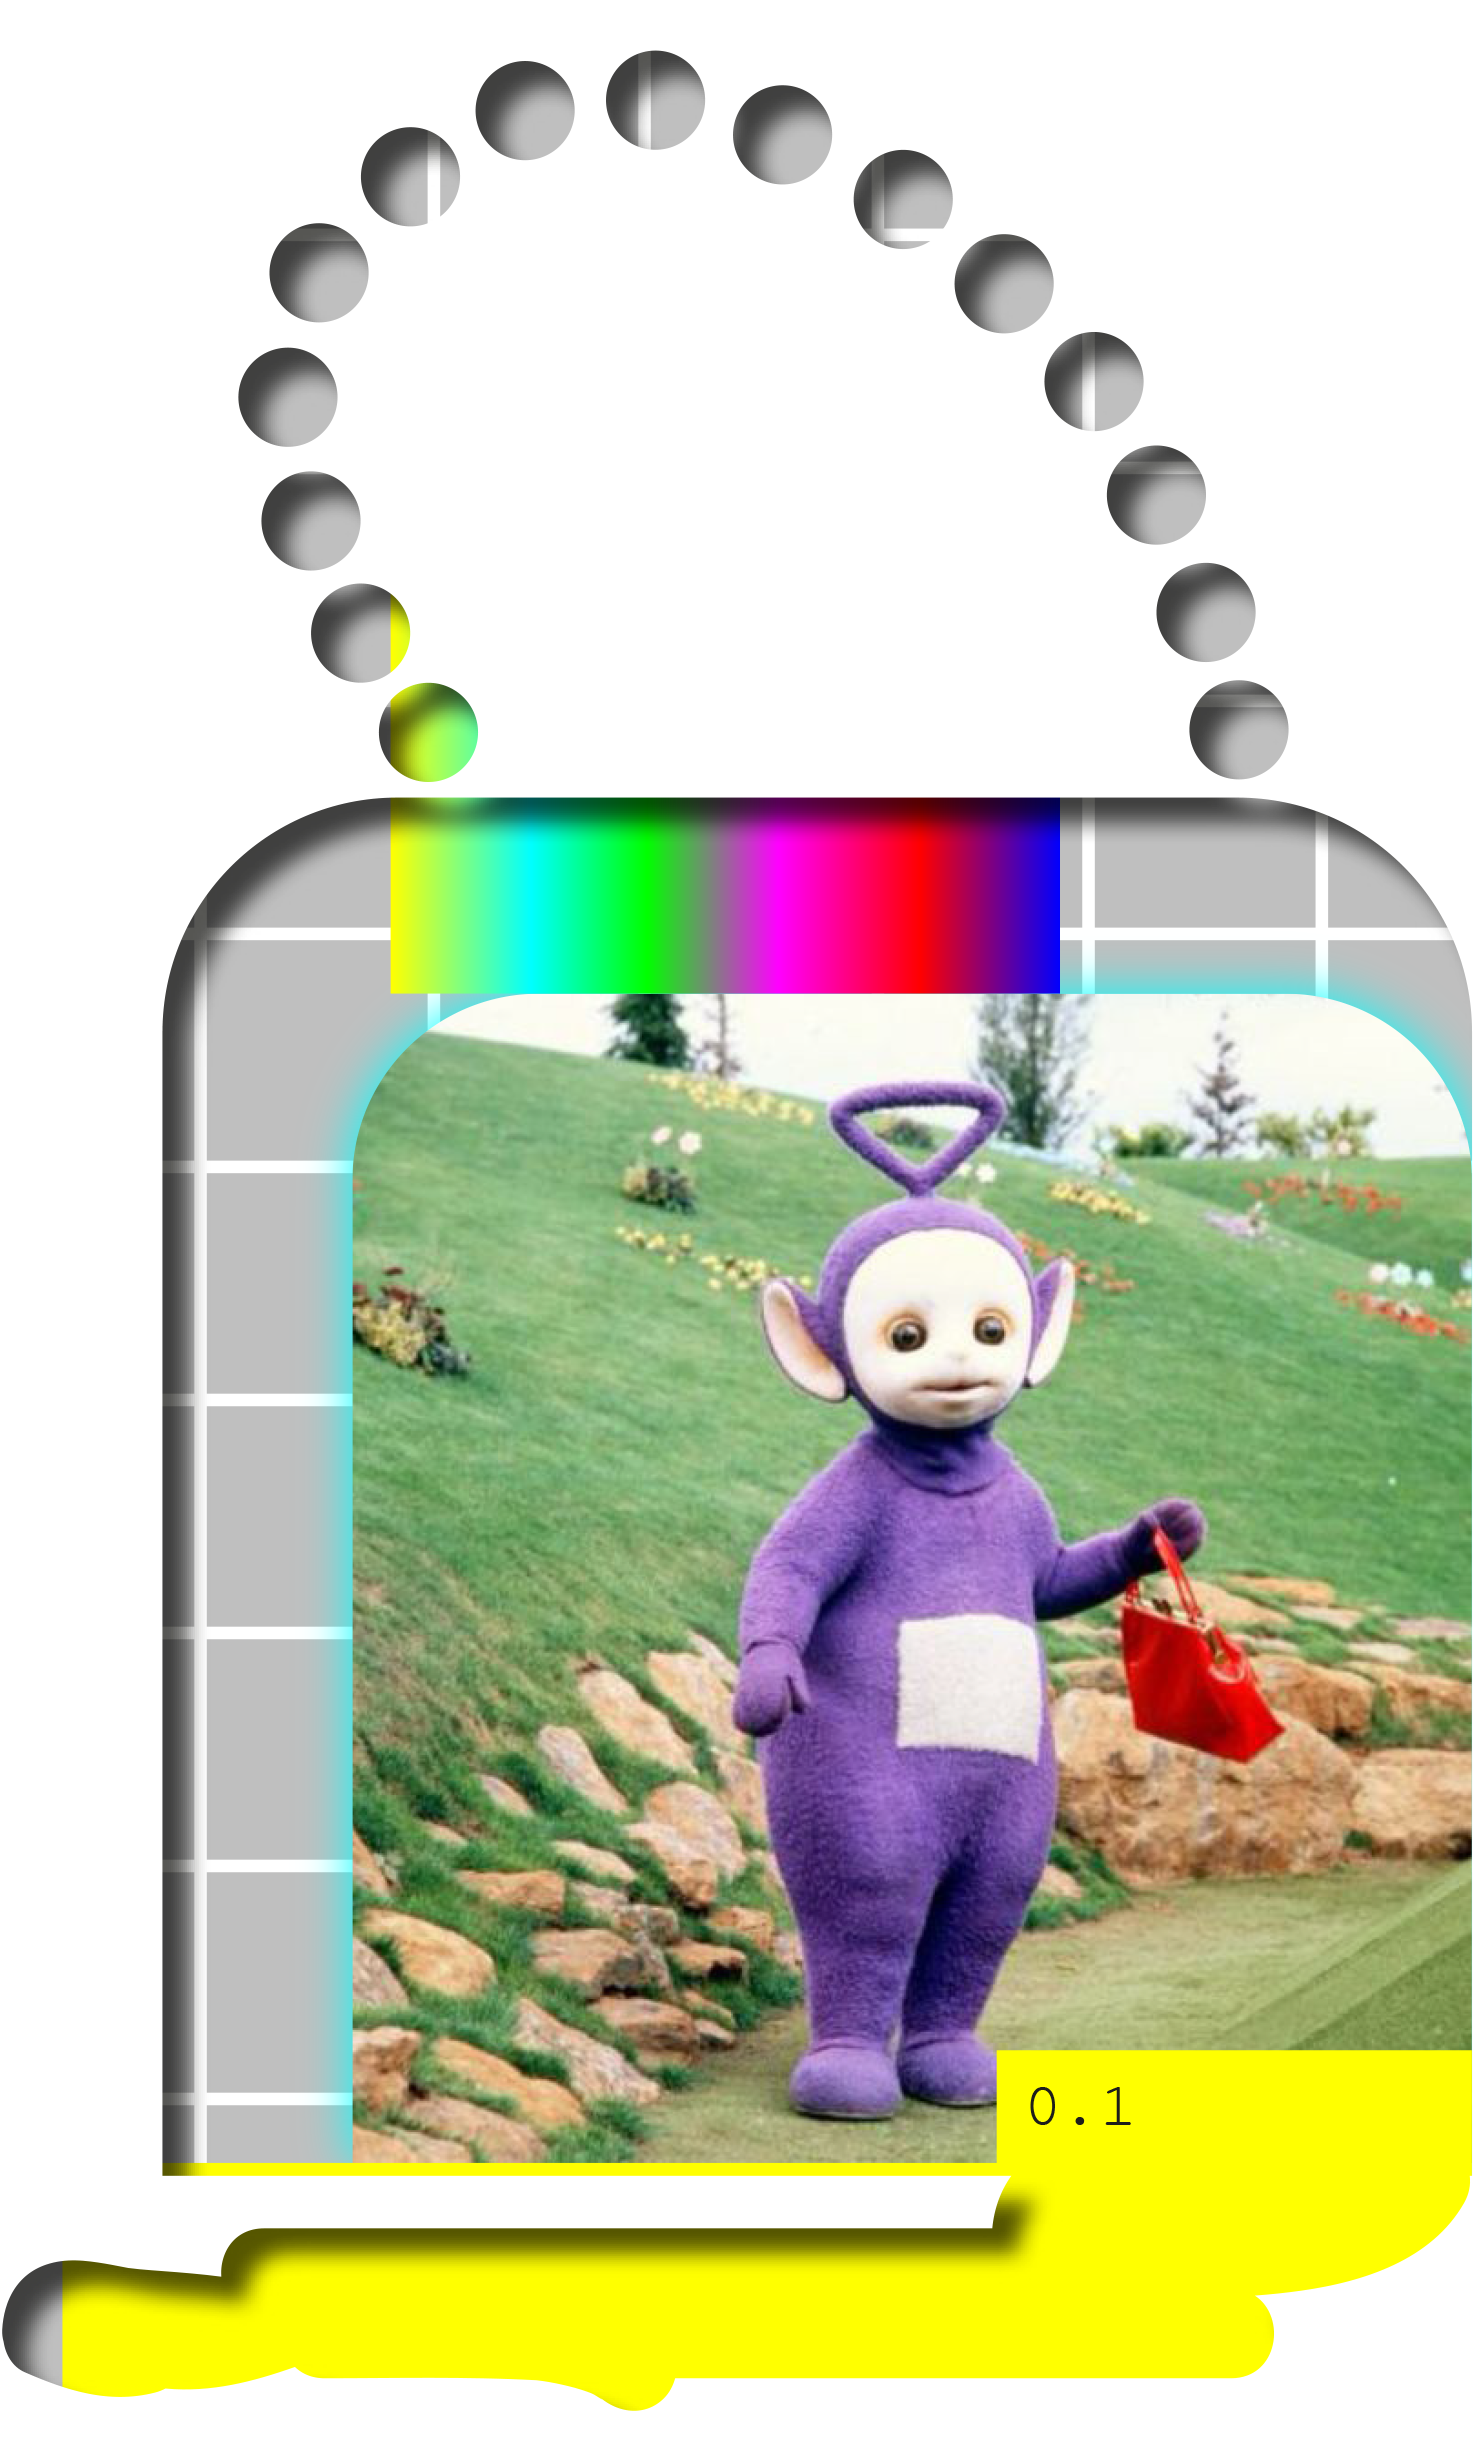
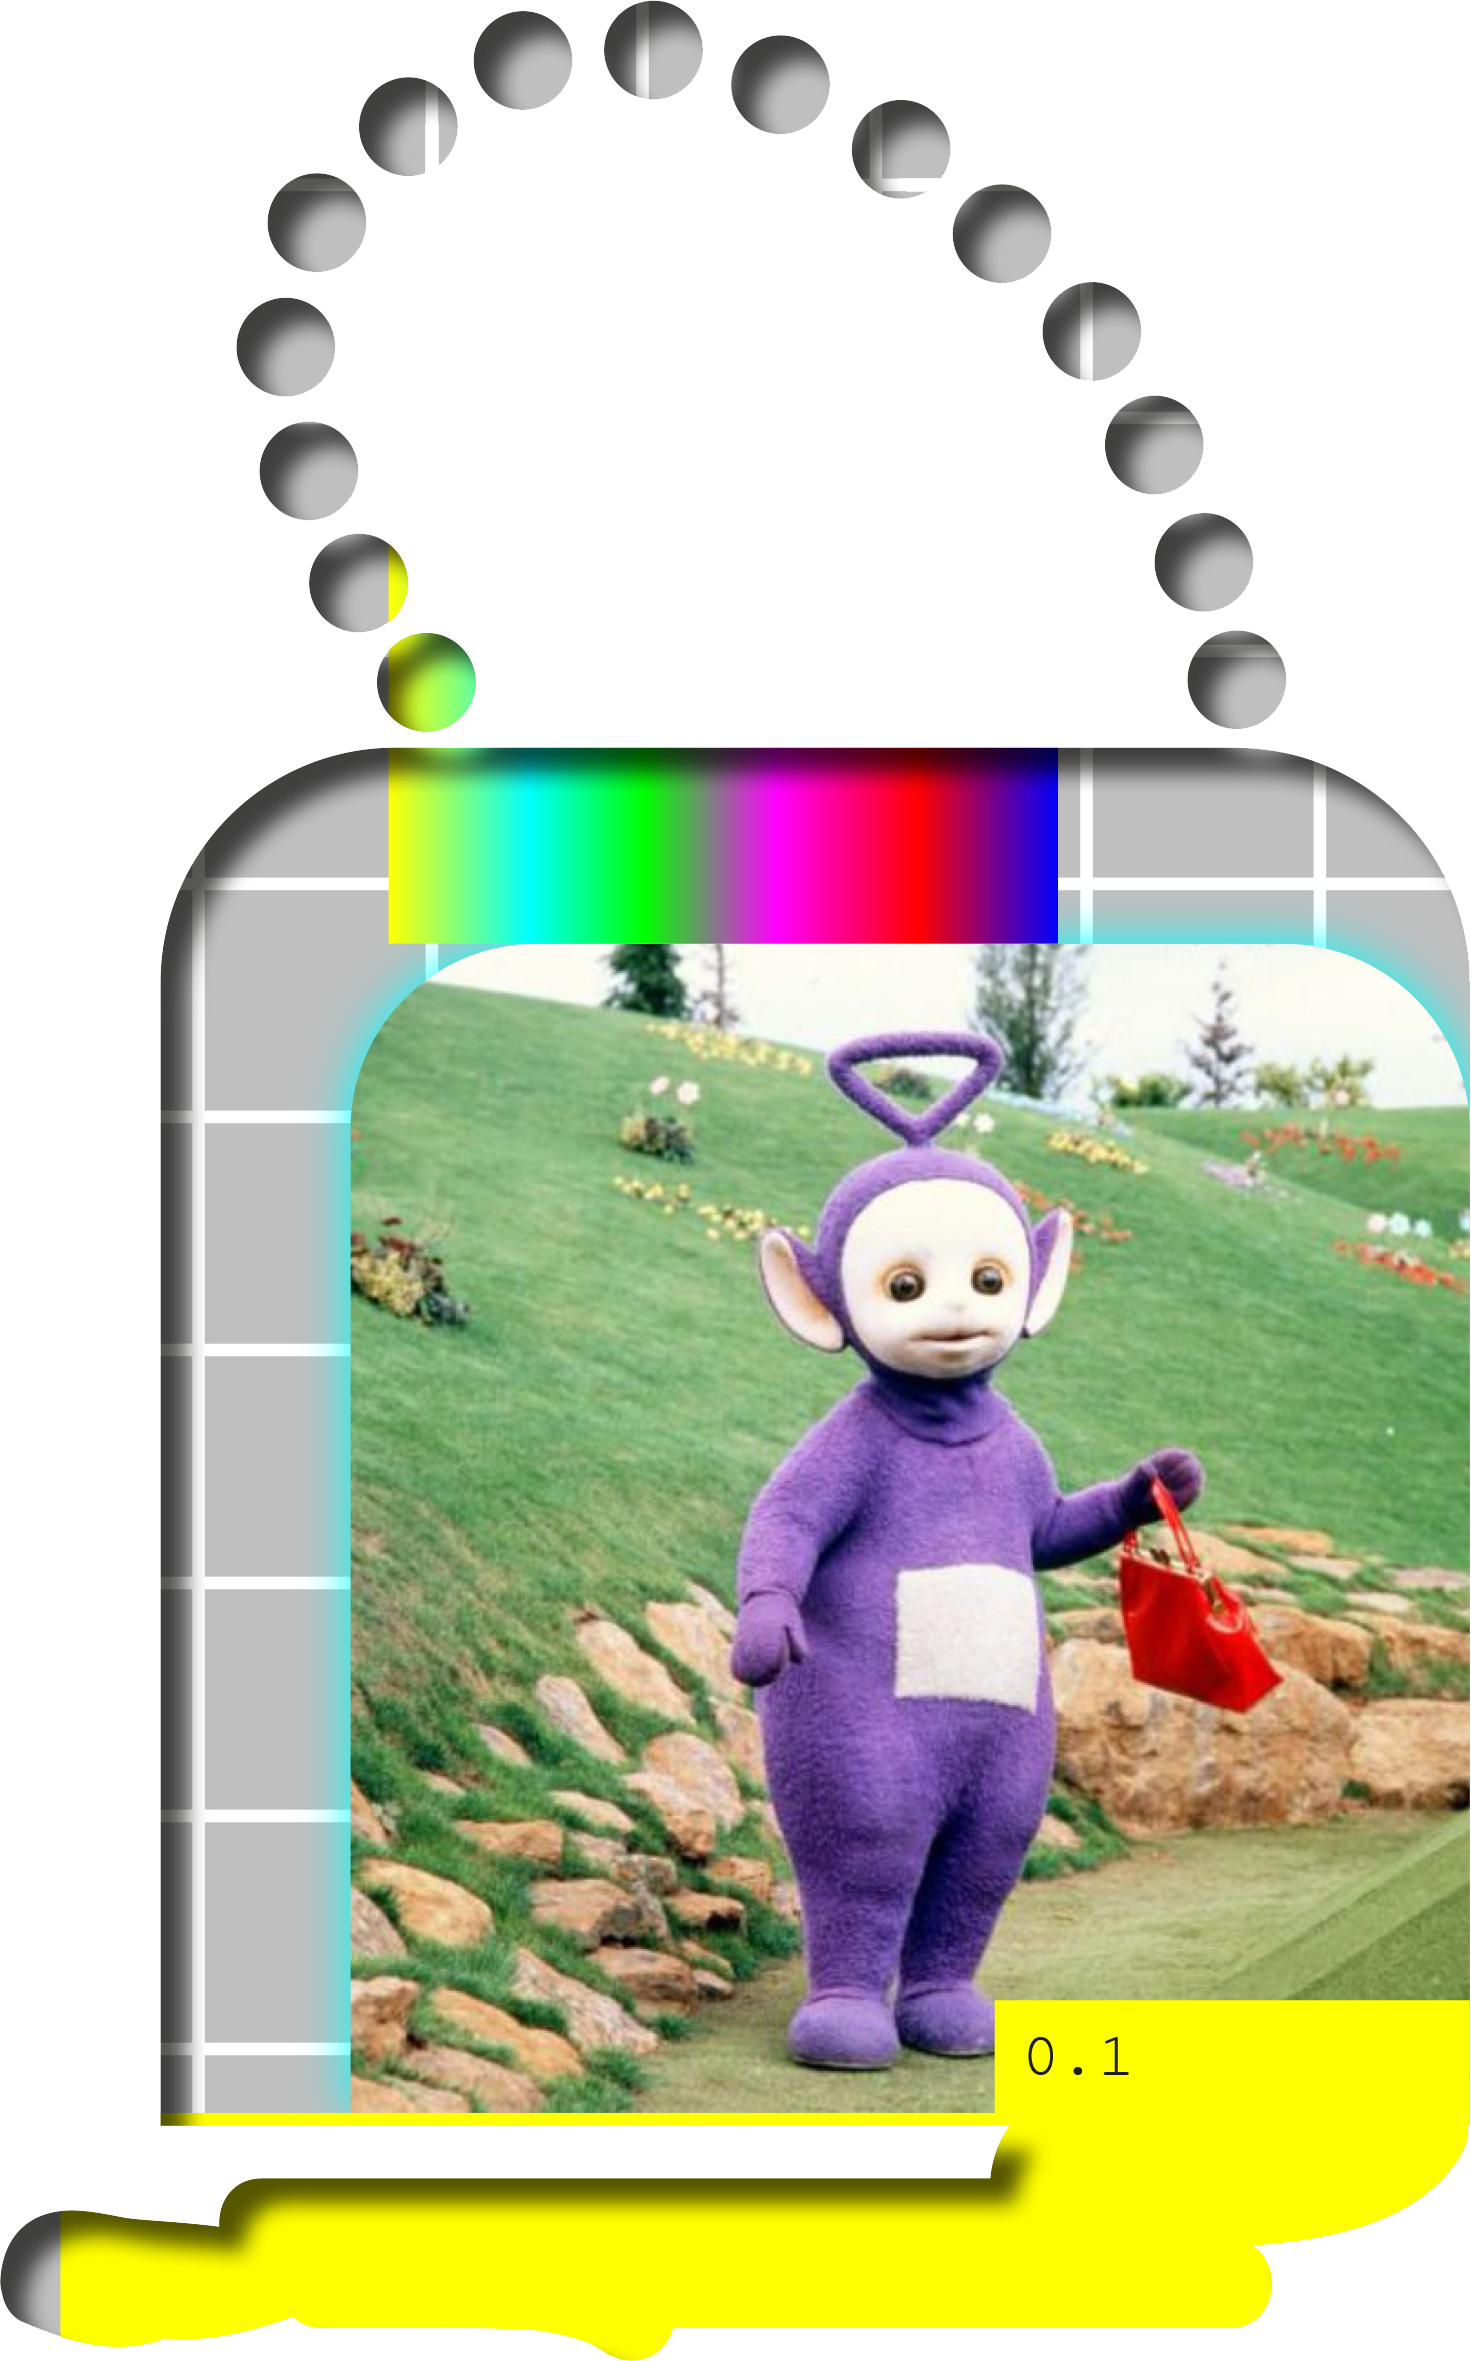
fixed image

diff --git a/index.html b/index.html
@@ -69,9 +69,9 @@
           <p><div class="script">[The audience oooohs, followed by loud cheering and applause.]</div></p>
           <p></p>
           <p>
-            <div class:"fixed-objects">
+        
               <img class="object" id="0.1-image" src="files/0-1.png">
-            </div>
+
 
             <i id="0.1">0.1</i>This Photo, taken on the set of the Teletubbies shows Tinky Winky carrying his red magic bag. In the show Tinky Winky and the three other multi colored foam covered characters of Teletubbies, Dipsy, Laa-Laa and Po, are known for their TV belly and distinctive antenna on their head. ####    The Tubbytronic Superdome, their underground house full of modern technology, is completed with a robotic vacuum cleaner, under the name Noo-Noo, automatic pudding machine, magical smiley toaster and an upwards gravity slide. A true precursor of the smart home. An ideal vision of modern living with technology in the magical green hilled landscape full of rabbits, under the cute baby faced sun. </p>
           <p>All Teletubbies have one item that represents their character. Dipsy, the green teletubby with a darker skin tone, has a hat with a black and white cow pattern, Laa-Laa, the yellow teletubby with a curly antenna, has a big orange ball, Po, the smallest red teletubby with a round antenna, has a red and blue scooter and Tinky Winky, the last teletubby, is carrying his magical bag.</p>

diff --git a/style.css b/style.css
@@ -113,15 +113,27 @@ i {
   /*box-shadow: 0 0 30px rgb(var(--bars));*/
 }
 
+
+
 .object{
-  position: relative;
-  width: 100%;
+  position: fixed;
+  left: 50%;
+  top: 50%;
+  transform: translate(-50%, -50%);
+
+  width: 80%;
+
+
+
+  /*
+  position: fixed;
+  width: 90%;
   height:auto;
   z-index: 19;
-  display: block;
 
+  z-index: 30;
   margin-bottom: 20px;
-
+*/
 
 
 }
